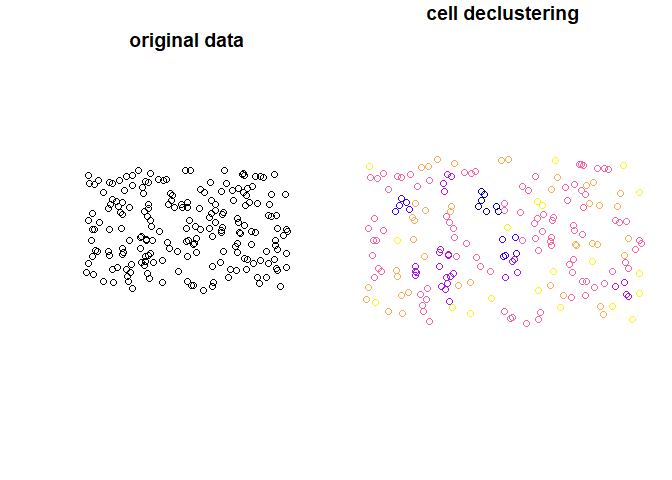
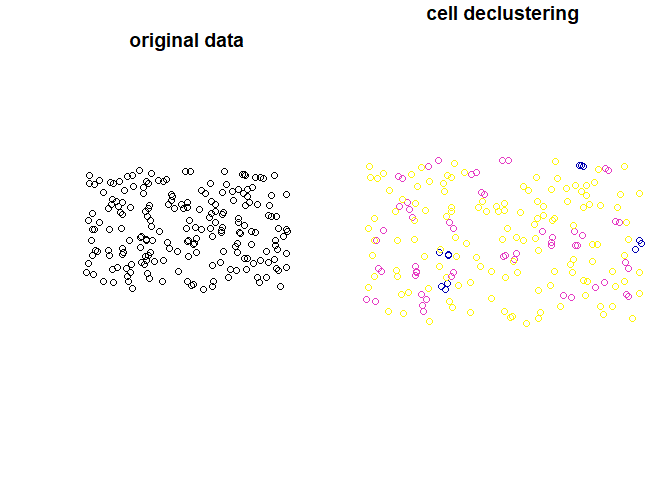
changing CRS

diff --git a/docs/index.html b/docs/index.html
@@ -100,42 +100,44 @@
 <a class="sourceLine" id="cb2-5" title="5"><span class="co">#&gt; Simple feature collection with 200 features and 1 field</span></a>
 <a class="sourceLine" id="cb2-6" title="6"><span class="co">#&gt; geometry type:  POINT</span></a>
 <a class="sourceLine" id="cb2-7" title="7"><span class="co">#&gt; dimension:      XY</span></a>
-<a class="sourceLine" id="cb2-8" title="8"><span class="co">#&gt; bbox:           xmin: -1.032267 ymin: -0.1410416 xmax: 0.09442347 ymax: 0.5297012</span></a>
-<a class="sourceLine" id="cb2-9" title="9"><span class="co">#&gt; epsg (SRID):    4326</span></a>
-<a class="sourceLine" id="cb2-10" title="10"><span class="co">#&gt; proj4string:    +proj=longlat +datum=WGS84 +no_defs</span></a></code></pre></div>
+<a class="sourceLine" id="cb2-8" title="8"><span class="co">#&gt; bbox:           xmin: -1775590 ymin: -5316527 xmax: -1642585 ymax: -5237789</span></a>
+<a class="sourceLine" id="cb2-9" title="9"><span class="co">#&gt; epsg (SRID):    NA</span></a>
+<a class="sourceLine" id="cb2-10" title="10"><span class="co">#&gt; proj4string:    +proj=tmerc +lat_0=0 +lon_0=19 +k=0.9993 +x_0=500000 +y_0=-5300000 +ellps=GRS80 +units=m +no_defs</span></a></code></pre></div>
 <div id="cell-declustering" class="section level3">
 <h3 class="hasAnchor">
 <a href="#cell-declustering" class="anchor"></a>Cell declustering</h3>
 <p>This is a basic example of cell declustering:</p>
 <div class="sourceCode" id="cb3"><pre class="sourceCode r"><code class="sourceCode r"><a class="sourceLine" id="cb3-1" title="1"><span class="kw"><a href="https://rdrr.io/r/base/library.html">library</a></span>(declusteringr)</a>
-<a class="sourceLine" id="cb3-2" title="2">x =<span class="st"> </span><span class="kw"><a href="reference/gridWeighted.html">gridWeighted</a></span>(<span class="dt">spatial_object =</span> points4, <span class="dt">cellsize =</span> <span class="fl">0.09</span>)</a>
-<a class="sourceLine" id="cb3-3" title="3"><span class="co">#&gt; although coordinates are longitude/latitude, st_intersects assumes that they are planar</span></a>
-<a class="sourceLine" id="cb3-4" title="4">x</a>
-<a class="sourceLine" id="cb3-5" title="5"><span class="co">#&gt; Simple feature collection with 200 features and 3 fields</span></a>
-<a class="sourceLine" id="cb3-6" title="6"><span class="co">#&gt; geometry type:  POINT</span></a>
-<a class="sourceLine" id="cb3-7" title="7"><span class="co">#&gt; dimension:      XY</span></a>
-<a class="sourceLine" id="cb3-8" title="8"><span class="co">#&gt; bbox:           xmin: -1.032267 ymin: -0.1410416 xmax: 0.09442347 ymax: 0.5297012</span></a>
-<a class="sourceLine" id="cb3-9" title="9"><span class="co">#&gt; epsg (SRID):    4326</span></a>
-<a class="sourceLine" id="cb3-10" title="10"><span class="co">#&gt; proj4string:    +proj=longlat +datum=WGS84 +no_defs</span></a>
-<a class="sourceLine" id="cb3-11" title="11"><span class="co">#&gt; First 10 features:</span></a>
-<a class="sourceLine" id="cb3-12" title="12"><span class="co">#&gt;     id received_weights lengths                       geometry</span></a>
-<a class="sourceLine" id="cb3-13" title="13"><span class="co">#&gt; 157  0         4.545455       2   POINT (0.005593351 0.392986)</span></a>
-<a class="sourceLine" id="cb3-14" title="14"><span class="co">#&gt; 128  1         3.030303       3   POINT (-0.01407625 0.280163)</span></a>
-<a class="sourceLine" id="cb3-15" title="15"><span class="co">#&gt; 140  2         1.298701       7   POINT (-0.4931845 0.3204552)</span></a>
-<a class="sourceLine" id="cb3-16" title="16"><span class="co">#&gt; 4    3         3.030303       3 POINT (-0.7998737 -0.09106148)</span></a>
-<a class="sourceLine" id="cb3-17" title="17"><span class="co">#&gt; 173  4         3.030303       3   POINT (-0.6024538 0.4721198)</span></a>
-<a class="sourceLine" id="cb3-18" title="18"><span class="co">#&gt; 141  5         1.298701       7   POINT (-0.4999889 0.3408532)</span></a>
-<a class="sourceLine" id="cb3-19" title="19"><span class="co">#&gt; 187  6         4.545455       2   POINT (-0.8074892 0.4988539)</span></a>
-<a class="sourceLine" id="cb3-20" title="20"><span class="co">#&gt; 110  7         3.030303       3   POINT (-0.9635923 0.2408171)</span></a>
-<a class="sourceLine" id="cb3-21" title="21"><span class="co">#&gt; 152  8         3.030303       3   POINT (-0.1446985 0.3359325)</span></a>
-<a class="sourceLine" id="cb3-22" title="22"><span class="co">#&gt; 43   9         2.272727       4 POINT (0.03232037 -0.02043053)</span></a></code></pre></div>
+<a class="sourceLine" id="cb3-2" title="2">x =<span class="st"> </span><span class="kw"><a href="reference/declstr_weighted.html">declstr_weighted</a></span>(<span class="dt">spatial_object =</span> points4, <span class="dt">cellsize =</span> <span class="dv">5000</span>)</a>
+<a class="sourceLine" id="cb3-3" title="3">x</a>
+<a class="sourceLine" id="cb3-4" title="4"><span class="co">#&gt; Simple feature collection with 200 features and 3 fields</span></a>
+<a class="sourceLine" id="cb3-5" title="5"><span class="co">#&gt; geometry type:  POINT</span></a>
+<a class="sourceLine" id="cb3-6" title="6"><span class="co">#&gt; dimension:      XY</span></a>
+<a class="sourceLine" id="cb3-7" title="7"><span class="co">#&gt; bbox:           xmin: -1775590 ymin: -5316527 xmax: -1642585 ymax: -5237789</span></a>
+<a class="sourceLine" id="cb3-8" title="8"><span class="co">#&gt; epsg (SRID):    NA</span></a>
+<a class="sourceLine" id="cb3-9" title="9"><span class="co">#&gt; proj4string:    +proj=tmerc +lat_0=0 +lon_0=19 +k=0.9993 +x_0=500000 +y_0=-5300000 +ellps=GRS80 +units=m +no_defs</span></a>
+<a class="sourceLine" id="cb3-10" title="10"><span class="co">#&gt; First 10 features:</span></a>
+<a class="sourceLine" id="cb3-11" title="11"><span class="co">#&gt;     id received_weights lengths                  geometry</span></a>
+<a class="sourceLine" id="cb3-12" title="12"><span class="co">#&gt; 163  0        0.7462687       1 POINT (-1652995 -5254057)</span></a>
+<a class="sourceLine" id="cb3-13" title="13"><span class="co">#&gt; 122  1        0.3731343       2 POINT (-1655337 -5267243)</span></a>
+<a class="sourceLine" id="cb3-14" title="14"><span class="co">#&gt; 133  2        0.7462687       1 POINT (-1711804 -5262422)</span></a>
+<a class="sourceLine" id="cb3-15" title="15"><span class="co">#&gt; 10   3        0.3731343       2 POINT (-1748079 -5310699)</span></a>
+<a class="sourceLine" id="cb3-16" title="16"><span class="co">#&gt; 182  4        0.3731343       2 POINT (-1724664 -5244599)</span></a>
+<a class="sourceLine" id="cb3-17" title="17"><span class="co">#&gt; 145  5        0.7462687       1 POINT (-1712603 -5260028)</span></a>
+<a class="sourceLine" id="cb3-18" title="18"><span class="co">#&gt; 190  6        0.7462687       1 POINT (-1748891 -5241387)</span></a>
+<a class="sourceLine" id="cb3-19" title="19"><span class="co">#&gt; 100  7        0.3731343       2 POINT (-1767435 -5271677)</span></a>
+<a class="sourceLine" id="cb3-20" title="20"><span class="co">#&gt; 150  8        0.7462687       1 POINT (-1670705 -5260691)</span></a>
+<a class="sourceLine" id="cb3-21" title="21"><span class="co">#&gt; 30   9        0.3731343       2 POINT (-1649904 -5302388)</span></a></code></pre></div>
 <p>Plot input data and weighted points:</p>
 <div class="sourceCode" id="cb4"><pre class="sourceCode r"><code class="sourceCode r"><a class="sourceLine" id="cb4-1" title="1"><span class="kw"><a href="https://rdrr.io/r/graphics/par.html">par</a></span>(<span class="dt">mfrow =</span> <span class="kw"><a href="https://rdrr.io/r/base/c.html">c</a></span>(<span class="dv">1</span>, <span class="dv">2</span>))</a>
 <a class="sourceLine" id="cb4-2" title="2"><span class="kw"><a href="https://rdrr.io/r/graphics/plot.html">plot</a></span>(<span class="kw">st_geometry</span>(points4), <span class="dt">main =</span> <span class="st">"original data"</span>)</a>
 <a class="sourceLine" id="cb4-3" title="3"><span class="kw"><a href="https://rdrr.io/r/graphics/plot.html">plot</a></span>(x[<span class="st">"received_weights"</span>], <span class="dt">main =</span> <span class="st">"cell declustering"</span>,</a>
 <a class="sourceLine" id="cb4-4" title="4">     <span class="dt">key.pos =</span> <span class="ot">NULL</span>, <span class="dt">reset =</span> <span class="ot">FALSE</span>)</a></code></pre></div>
 <p><img src="reference/figures/README-unnamed-chunk-3-1.png" width="100%"></p>
-<p><code><a href="reference/gridWeighted.html">gridWeighted()</a></code> is adding the following columns: <code>received_weights</code> - the weight of each cell, and <code>lengths</code> - a number of points in cell. <code><a href="reference/gridWeighted.html">gridWeighted()</a></code> does not change the number of features. Weights are calculated according to the equation:</p>
+<p><code><a href="reference/declstr_weighted.html">declstr_weighted()</a></code> is adding the following columns: <code>received_weights</code></p>
+<ul>
+<li>the weight of each cell, and <code>lengths</code> - a number of points in cell. <code><a href="reference/declstr_weighted.html">declstr_weighted()</a></code> does not change the number of features. Weights are calculated according to the equation:</li>
+</ul>
 <p><img src="reference/figures/cell_decl_pattern.PNG" alt="pattern"></p>
 <p>, where <em>n<sub>i</sub></em> is the number of samples in the cell in which sample <em>j</em> is located and <em>n</em> is the total number cells with samples.</p>
 </div>
@@ -143,34 +145,33 @@
 <h3 class="hasAnchor">
 <a href="#random-declustering" class="anchor"></a>Random declustering</h3>
 <p>This is basic example of random declustering:</p>
-<div class="sourceCode" id="cb5"><pre class="sourceCode r"><code class="sourceCode r"><a class="sourceLine" id="cb5-1" title="1">y =<span class="st"> </span><span class="kw"><a href="reference/gridRandom.html">gridRandom</a></span>(<span class="dt">spatial_object =</span> points4, <span class="dt">cellsize =</span> <span class="fl">0.09</span>, <span class="dt">numpoint =</span> <span class="dv">2</span>)</a>
-<a class="sourceLine" id="cb5-2" title="2"><span class="co">#&gt; although coordinates are longitude/latitude, st_intersects assumes that they are planar</span></a>
-<a class="sourceLine" id="cb5-3" title="3">y</a>
-<a class="sourceLine" id="cb5-4" title="4"><span class="co">#&gt; Simple feature collection with 144 features and 0 fields</span></a>
-<a class="sourceLine" id="cb5-5" title="5"><span class="co">#&gt; geometry type:  POINT</span></a>
-<a class="sourceLine" id="cb5-6" title="6"><span class="co">#&gt; dimension:      XY</span></a>
-<a class="sourceLine" id="cb5-7" title="7"><span class="co">#&gt; bbox:           xmin: -1.032267 ymin: -0.1410416 xmax: 0.09442347 ymax: 0.5297012</span></a>
-<a class="sourceLine" id="cb5-8" title="8"><span class="co">#&gt; epsg (SRID):    4326</span></a>
-<a class="sourceLine" id="cb5-9" title="9"><span class="co">#&gt; proj4string:    +proj=longlat +datum=WGS84 +no_defs</span></a>
-<a class="sourceLine" id="cb5-10" title="10"><span class="co">#&gt; First 10 features:</span></a>
-<a class="sourceLine" id="cb5-11" title="11"><span class="co">#&gt;                              geom</span></a>
-<a class="sourceLine" id="cb5-12" title="12"><span class="co">#&gt; 1  POINT (-0.9933803 -0.05165088)</span></a>
-<a class="sourceLine" id="cb5-13" title="13"><span class="co">#&gt; 2  POINT (-0.9401051 -0.09067107)</span></a>
-<a class="sourceLine" id="cb5-14" title="14"><span class="co">#&gt; 3   POINT (-0.881981 -0.09763874)</span></a>
-<a class="sourceLine" id="cb5-15" title="15"><span class="co">#&gt; 4   POINT (-0.7750732 -0.1312637)</span></a>
-<a class="sourceLine" id="cb5-16" title="16"><span class="co">#&gt; 5  POINT (-0.7998737 -0.09106148)</span></a>
-<a class="sourceLine" id="cb5-17" title="17"><span class="co">#&gt; 6   POINT (-0.6788683 -0.0741609)</span></a>
-<a class="sourceLine" id="cb5-18" title="18"><span class="co">#&gt; 7  POINT (-0.6063728 -0.09643894)</span></a>
-<a class="sourceLine" id="cb5-19" title="19"><span class="co">#&gt; 8  POINT (-0.4681831 -0.09190032)</span></a>
-<a class="sourceLine" id="cb5-20" title="20"><span class="co">#&gt; 9   POINT (-0.4340456 -0.1129716)</span></a>
-<a class="sourceLine" id="cb5-21" title="21"><span class="co">#&gt; 10  POINT (-0.3762444 -0.1410416)</span></a></code></pre></div>
+<div class="sourceCode" id="cb5"><pre class="sourceCode r"><code class="sourceCode r"><a class="sourceLine" id="cb5-1" title="1">y =<span class="st"> </span><span class="kw"><a href="reference/declstr_random.html">declstr_random</a></span>(<span class="dt">spatial_object =</span> points4, <span class="dt">cellsize =</span> <span class="dv">5000</span>, <span class="dt">numpoint =</span> <span class="dv">2</span>)</a>
+<a class="sourceLine" id="cb5-2" title="2">y</a>
+<a class="sourceLine" id="cb5-3" title="3"><span class="co">#&gt; Simple feature collection with 196 features and 0 fields</span></a>
+<a class="sourceLine" id="cb5-4" title="4"><span class="co">#&gt; geometry type:  POINT</span></a>
+<a class="sourceLine" id="cb5-5" title="5"><span class="co">#&gt; dimension:      XY</span></a>
+<a class="sourceLine" id="cb5-6" title="6"><span class="co">#&gt; bbox:           xmin: -1775590 ymin: -5316527 xmax: -1643538 ymax: -5237789</span></a>
+<a class="sourceLine" id="cb5-7" title="7"><span class="co">#&gt; epsg (SRID):    NA</span></a>
+<a class="sourceLine" id="cb5-8" title="8"><span class="co">#&gt; proj4string:    +proj=tmerc +lat_0=0 +lon_0=19 +k=0.9993 +x_0=500000 +y_0=-5300000 +ellps=GRS80 +units=m +no_defs</span></a>
+<a class="sourceLine" id="cb5-9" title="9"><span class="co">#&gt; First 10 features:</span></a>
+<a class="sourceLine" id="cb5-10" title="10"><span class="co">#&gt;                         geom</span></a>
+<a class="sourceLine" id="cb5-11" title="11"><span class="co">#&gt; 1  POINT (-1745143 -5315420)</span></a>
+<a class="sourceLine" id="cb5-12" title="12"><span class="co">#&gt; 2  POINT (-1705916 -5313721)</span></a>
+<a class="sourceLine" id="cb5-13" title="13"><span class="co">#&gt; 3  POINT (-1704856 -5313243)</span></a>
+<a class="sourceLine" id="cb5-14" title="14"><span class="co">#&gt; 4  POINT (-1698034 -5316527)</span></a>
+<a class="sourceLine" id="cb5-15" title="15"><span class="co">#&gt; 5  POINT (-1692213 -5314210)</span></a>
+<a class="sourceLine" id="cb5-16" title="16"><span class="co">#&gt; 6  POINT (-1661228 -5311955)</span></a>
+<a class="sourceLine" id="cb5-17" title="17"><span class="co">#&gt; 7  POINT (-1647020 -5314307)</span></a>
+<a class="sourceLine" id="cb5-18" title="18"><span class="co">#&gt; 8  POINT (-1764673 -5310663)</span></a>
+<a class="sourceLine" id="cb5-19" title="19"><span class="co">#&gt; 9  POINT (-1757793 -5311478)</span></a>
+<a class="sourceLine" id="cb5-20" title="20"><span class="co">#&gt; 10 POINT (-1748079 -5310699)</span></a></code></pre></div>
 <p>Plot input data and data after random declustering:</p>
 <div class="sourceCode" id="cb6"><pre class="sourceCode r"><code class="sourceCode r"><a class="sourceLine" id="cb6-1" title="1"><span class="kw"><a href="https://rdrr.io/r/graphics/par.html">par</a></span>(<span class="dt">mfrow =</span> <span class="kw"><a href="https://rdrr.io/r/base/c.html">c</a></span>(<span class="dv">1</span>, <span class="dv">2</span>))</a>
 <a class="sourceLine" id="cb6-2" title="2"><span class="kw"><a href="https://rdrr.io/r/graphics/plot.html">plot</a></span>(<span class="kw">st_geometry</span>(points4), <span class="dt">main =</span> <span class="st">"original data"</span>)</a>
 <a class="sourceLine" id="cb6-3" title="3"><span class="kw"><a href="https://rdrr.io/r/graphics/plot.html">plot</a></span>(y, <span class="dt">main =</span> <span class="st">"random declustering"</span>,</a>
 <a class="sourceLine" id="cb6-4" title="4">     <span class="dt">key.pos =</span> <span class="ot">NULL</span>, <span class="dt">reset =</span> <span class="ot">FALSE</span>)</a></code></pre></div>
 <p><img src="reference/figures/README-unnamed-chunk-5-1.png" width="100%"></p>
-<p><code><a href="reference/gridRandom.html">gridRandom()</a></code> is choosing random features by specifying some parameters. <code><a href="reference/gridRandom.html">gridRandom()</a></code> can change the number of features.</p>
+<p><code><a href="reference/declstr_random.html">declstr_random()</a></code> is choosing random features by specifying some parameters. <code><a href="reference/declstr_random.html">declstr_random()</a></code> can change the number of features.</p>
 </div>
 </div>
 <div id="references" class="section level2">
@@ -204,6 +205,7 @@
 <h2>Developers</h2>
 <ul class="list-unstyled">
 <li>Aleksandra Sarna <br><small class="roles"> Author, maintainer </small>  </li>
+<li>Jakub Nowosad <br><small class="roles"> Author </small>  </li>
 </ul>
 </div>
 
@@ -212,7 +214,7 @@
 
 
       <footer><div class="copyright">
-  <p>Developed by Aleksandra Sarna.</p>
+  <p>Developed by Aleksandra Sarna, Jakub Nowosad.</p>
 </div>
 
 <div class="pkgdown">

diff --git a/docs/reference/index.html b/docs/reference/index.html
@@ -130,13 +130,13 @@
       <tr>
         
         <td>
-          <p><code><a href="gridRandom.html">gridRandom()</a></code> </p>
+          <p><code><a href="declstr_random.html">declstr_random()</a></code> </p>
         </td>
         <td><p>Random Declustering</p></td>
       </tr><tr>
         
         <td>
-          <p><code><a href="gridWeighted.html">gridWeighted()</a></code> </p>
+          <p><code><a href="declstr_weighted.html">declstr_weighted()</a></code> </p>
         </td>
         <td><p>Cell Declustering</p></td>
       </tr>
@@ -155,7 +155,7 @@
 
       <footer>
       <div class="copyright">
-  <p>Developed by Aleksandra Sarna.</p>
+  <p>Developed by Aleksandra Sarna, Jakub Nowosad.</p>
 </div>
 
 <div class="pkgdown">

diff --git a/docs/authors.html b/docs/authors.html
@@ -117,6 +117,10 @@
         <p><strong>Aleksandra Sarna</strong>. Author, maintainer. 
         </p>
       </li>
+      <li>
+        <p><strong>Jakub Nowosad</strong>. Author. 
+        </p>
+      </li>
     </ul>
 
   </div>
@@ -127,7 +131,7 @@
 
       <footer>
       <div class="copyright">
-  <p>Developed by Aleksandra Sarna.</p>
+  <p>Developed by Aleksandra Sarna, Jakub Nowosad.</p>
 </div>
 
 <div class="pkgdown">

diff --git a/docs/404.html b/docs/404.html
@@ -122,7 +122,7 @@ Content not found. Please use links in the navbar.
 
       <footer>
       <div class="copyright">
-  <p>Developed by Aleksandra Sarna.</p>
+  <p>Developed by Aleksandra Sarna, Jakub Nowosad.</p>
 </div>
 
 <div class="pkgdown">

diff --git a/docs/LICENSE-text.html b/docs/LICENSE-text.html
@@ -124,7 +124,7 @@ COPYRIGHT HOLDER: Aleksandra Sarna
 
       <footer>
       <div class="copyright">
-  <p>Developed by Aleksandra Sarna.</p>
+  <p>Developed by Aleksandra Sarna, Jakub Nowosad.</p>
 </div>
 
 <div class="pkgdown">

diff --git a/docs/LICENSE.html b/docs/LICENSE.html
@@ -128,7 +128,7 @@
 
       <footer>
       <div class="copyright">
-  <p>Developed by Aleksandra Sarna.</p>
+  <p>Developed by Aleksandra Sarna, Jakub Nowosad.</p>
 </div>
 
 <div class="pkgdown">

diff --git a/docs/articles/index.html b/docs/articles/index.html
@@ -126,7 +126,7 @@
 
       <footer>
       <div class="copyright">
-  <p>Developed by Aleksandra Sarna.</p>
+  <p>Developed by Aleksandra Sarna, Jakub Nowosad.</p>
 </div>
 
 <div class="pkgdown">

diff --git a/docs/news/index.html b/docs/news/index.html
@@ -136,7 +136,7 @@
 
       <footer>
       <div class="copyright">
-  <p>Developed by Aleksandra Sarna.</p>
+  <p>Developed by Aleksandra Sarna, Jakub Nowosad.</p>
 </div>
 
 <div class="pkgdown">

diff --git a/docs/articles/declusteringr.html b/docs/articles/declusteringr.html
@@ -95,7 +95,7 @@
 
 
       <footer><div class="copyright">
-  <p>Developed by Aleksandra Sarna.</p>
+  <p>Developed by Aleksandra Sarna, Jakub Nowosad.</p>
 </div>
 
 <div class="pkgdown">

diff --git a/README.md b/README.md
@@ -40,9 +40,9 @@ points4 = sf::st_read(system.file("points/punkty4.shp", package = "declusteringr
 #> Simple feature collection with 200 features and 1 field
 #> geometry type:  POINT
 #> dimension:      XY
-#> bbox:           xmin: -1.032267 ymin: -0.1410416 xmax: 0.09442347 ymax: 0.5297012
-#> epsg (SRID):    4326
-#> proj4string:    +proj=longlat +datum=WGS84 +no_defs
+#> bbox:           xmin: -1775590 ymin: -5316527 xmax: -1642585 ymax: -5237789
+#> epsg (SRID):    NA
+#> proj4string:    +proj=tmerc +lat_0=0 +lon_0=19 +k=0.9993 +x_0=500000 +y_0=-5300000 +ellps=GRS80 +units=m +no_defs
 ```
 
 ### Cell declustering
@@ -51,27 +51,26 @@ This is a basic example of cell declustering:
 
 ``` r
 library(declusteringr)
-x = declstr_weighted(spatial_object = points4, cellsize = 0.09)
-#> although coordinates are longitude/latitude, st_intersects assumes that they are planar
+x = declstr_weighted(spatial_object = points4, cellsize = 5000)
 x
 #> Simple feature collection with 200 features and 3 fields
 #> geometry type:  POINT
 #> dimension:      XY
-#> bbox:           xmin: -1.032267 ymin: -0.1410416 xmax: 0.09442347 ymax: 0.5297012
-#> epsg (SRID):    4326
-#> proj4string:    +proj=longlat +datum=WGS84 +no_defs
+#> bbox:           xmin: -1775590 ymin: -5316527 xmax: -1642585 ymax: -5237789
+#> epsg (SRID):    NA
+#> proj4string:    +proj=tmerc +lat_0=0 +lon_0=19 +k=0.9993 +x_0=500000 +y_0=-5300000 +ellps=GRS80 +units=m +no_defs
 #> First 10 features:
-#>     id received_weights lengths                       geometry
-#> 157  0         4.545455       2   POINT (0.005593351 0.392986)
-#> 128  1         3.030303       3   POINT (-0.01407625 0.280163)
-#> 140  2         1.298701       7   POINT (-0.4931845 0.3204552)
-#> 4    3         3.030303       3 POINT (-0.7998737 -0.09106148)
-#> 173  4         3.030303       3   POINT (-0.6024538 0.4721198)
-#> 141  5         1.298701       7   POINT (-0.4999889 0.3408532)
-#> 187  6         4.545455       2   POINT (-0.8074892 0.4988539)
-#> 110  7         3.030303       3   POINT (-0.9635923 0.2408171)
-#> 152  8         3.030303       3   POINT (-0.1446985 0.3359325)
-#> 43   9         2.272727       4 POINT (0.03232037 -0.02043053)
+#>     id received_weights lengths                  geometry
+#> 163  0        0.7462687       1 POINT (-1652995 -5254057)
+#> 122  1        0.3731343       2 POINT (-1655337 -5267243)
+#> 133  2        0.7462687       1 POINT (-1711804 -5262422)
+#> 10   3        0.3731343       2 POINT (-1748079 -5310699)
+#> 182  4        0.3731343       2 POINT (-1724664 -5244599)
+#> 145  5        0.7462687       1 POINT (-1712603 -5260028)
+#> 190  6        0.7462687       1 POINT (-1748891 -5241387)
+#> 100  7        0.3731343       2 POINT (-1767435 -5271677)
+#> 150  8        0.7462687       1 POINT (-1670705 -5260691)
+#> 30   9        0.3731343       2 POINT (-1649904 -5302388)
 ```
 
 Plot input data and weighted points:
@@ -101,27 +100,26 @@ This is basic example of random
 declustering:
 
 ``` r
-y = declstr_random(spatial_object = points4, cellsize = 0.09, numpoint = 2)
-#> although coordinates are longitude/latitude, st_intersects assumes that they are planar
+y = declstr_random(spatial_object = points4, cellsize = 5000, numpoint = 2)
 y
-#> Simple feature collection with 144 features and 0 fields
+#> Simple feature collection with 196 features and 0 fields
 #> geometry type:  POINT
 #> dimension:      XY
-#> bbox:           xmin: -1.032267 ymin: -0.1410416 xmax: 0.09442347 ymax: 0.5297012
-#> epsg (SRID):    4326
-#> proj4string:    +proj=longlat +datum=WGS84 +no_defs
+#> bbox:           xmin: -1775590 ymin: -5316527 xmax: -1643538 ymax: -5237789
+#> epsg (SRID):    NA
+#> proj4string:    +proj=tmerc +lat_0=0 +lon_0=19 +k=0.9993 +x_0=500000 +y_0=-5300000 +ellps=GRS80 +units=m +no_defs
 #> First 10 features:
-#>                              geom
-#> 1  POINT (-0.9933803 -0.05165088)
-#> 2   POINT (-0.881981 -0.09763874)
-#> 3  POINT (-0.9401051 -0.09067107)
-#> 4  POINT (-0.7998737 -0.09106148)
-#> 5   POINT (-0.8030895 -0.0664513)
-#> 6   POINT (-0.6788683 -0.0741609)
-#> 7  POINT (-0.6063728 -0.09643894)
-#> 8  POINT (-0.4681831 -0.09190032)
-#> 9   POINT (-0.4340456 -0.1129716)
-#> 10  POINT (-0.3762444 -0.1410416)
+#>                         geom
+#> 1  POINT (-1745143 -5315420)
+#> 2  POINT (-1705916 -5313721)
+#> 3  POINT (-1704856 -5313243)
+#> 4  POINT (-1698034 -5316527)
+#> 5  POINT (-1692213 -5314210)
+#> 6  POINT (-1661228 -5311955)
+#> 7  POINT (-1647020 -5314307)
+#> 8  POINT (-1764673 -5310663)
+#> 9  POINT (-1757793 -5311478)
+#> 10 POINT (-1748079 -5310699)
 ```
 
 Plot input data and data after random declustering:
